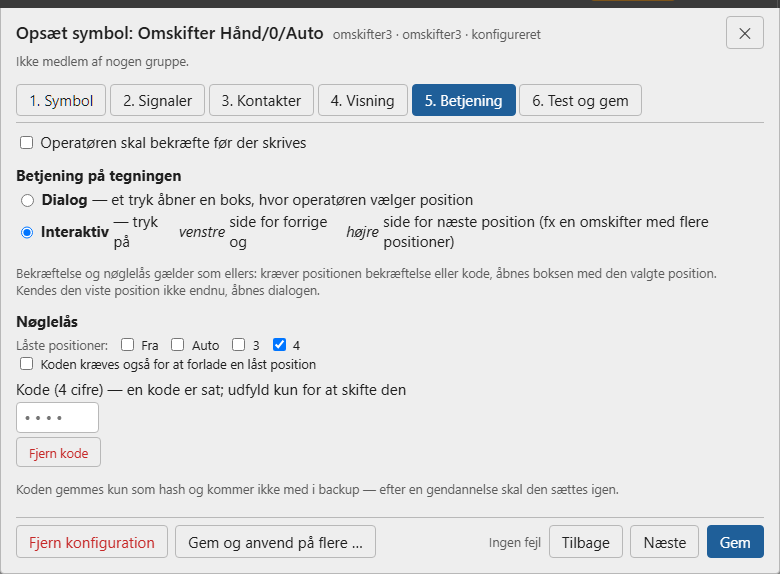
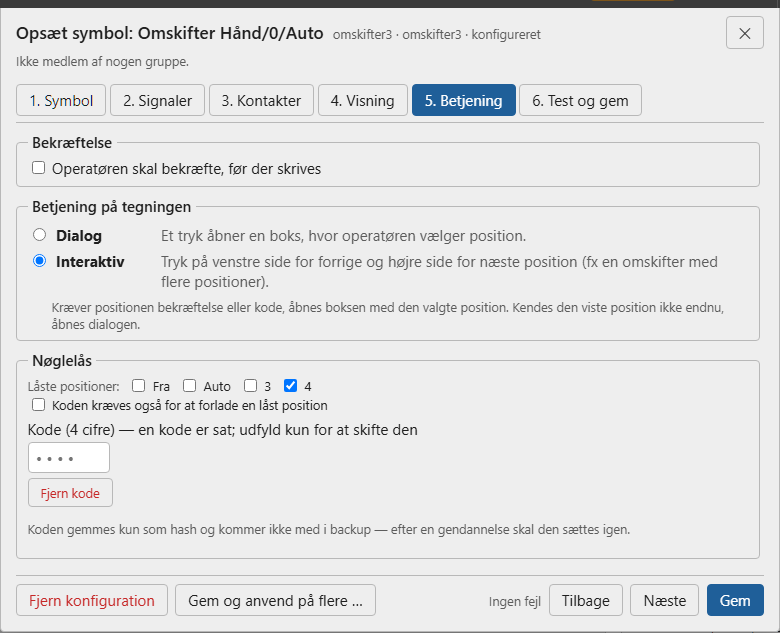
docs: manual — guidens trin 5 med nyt layout og nye skærmbilleder

Changed region(s): [[0.0, 0.0296, 1.0, 1.0], [0.9231, 0.0592, 0.9846, 0.0889], [0.9231, 0.0, 0.9846, 0.0296]]

diff --git a/frontend/src/manual/10-symboler-og-guiden.md b/frontend/src/manual/10-symboler-og-guiden.md
@@ -10,7 +10,7 @@ Alle symboler i biblioteket sættes op på samme måde: med **guiden i 6 trin**.
 | **2. Signaler** | Vælg de tags symbolet skriver (**Kommando**) og evt. læser tilbage (**Tilbagemelding**). **Skrives som**: *Sæt* (til/fra eller værdi) eller *Puls* (kort impuls med en fast **hvile**-værdi bagefter). Et valgfrit **Fejlsignal** spærrer betjeningen, når det er Til |
 | **3. Kontakter** | Kun for positioner. Et **kontaktdiagram** fortæller, hvad hver position sætter: hver *plan* styrer ét signal, og hver celle er *Til*, *Fra*, *røres ikke* (til/fra) eller en **værdi** (register). Skabeloner A–D laver typiske mønstre: A = tallet 0,1,2 …; B = ét signal pr. position; C = bit-mønster; D = tal omsat til binære signaler |
 | **4. Visning** | **Vis**: *PLC'ens position* (tilbagemeldingen — kræver en tilbagemelding på alle signaler i kontaktplanerne) eller *valgt position* (standard for nye symboler). **Tid til at bekræfte**: hvor længe PLC'en må om at følge efter. **Alarm ved afvigelse/fejl**. Her laver du også **logikblokke** og **animationer** |
-| **5. Betjening** | **Operatøren skal bekræfte** før der skrives. **Pulslængde** (trykknapper). **Nøglelås**: vælg hvilke positioner der kræver en **kode** (4 cifre) |
+| **5. Betjening** | Opdelt i bokse: **Bekræftelse** (operatøren skal bekræfte, før der skrives), **Betjening på tegningen** (*Dialog* eller *Interaktiv*, kun symboler med positioner), **Puls** (pulslængde for trykknapper) og **Nøglelås** (hvilke positioner der kræver en **kode** på 4 cifre) |
 | **6. Test og gem** | Se **live** værdier for signalerne og hvilken position PLC'en står på lige nu. En **skriveplan** viser præcis, hvad hver position vil skrive. Advarsler vises; **Gem** er kun muligt uden fejl |
 
 ![Trin 1 — Symbol: vælg betjeningsform](../../public/manual/guide-1.png)

diff --git a/CHANGELOG.md b/CHANGELOG.md
@@ -4,6 +4,10 @@ Nyeste øverst. Format: `## [version build NNNN] — YYYY-MM-DD — beskrivelse`
 
 ---
 
+## [docs] — 2026-11-04 — Manual: guidens trin 5 med nyt layout
+
+- `frontend/src/manual/10-symboler-og-guiden.md` (trin 5 beskrevet som bokse) og nye skærmbilleder `frontend/public/manual/guide-5.png`, `guide-interaktiv.png`, `guide-noeglelaas.png`.
+
 ## [3.26.2 build 0328] — 2026-11-04 — Guiden, trin 5 Betjening: ryddet op
 
 - `frontend/src/lib/SymbolGuide.svelte`: trin 5 i bokse (Bekræftelse, Betjening på tegningen, Puls, Nøglelås); *Dialog/Interaktiv* som knap · navn · forklaring i faste kolonner — teksten blev før brudt op af flex-layoutet. `frontend/src/lib/SymbolReplace.svelte`: samme fejl i valget af lignende symboler. BUGS.md.
